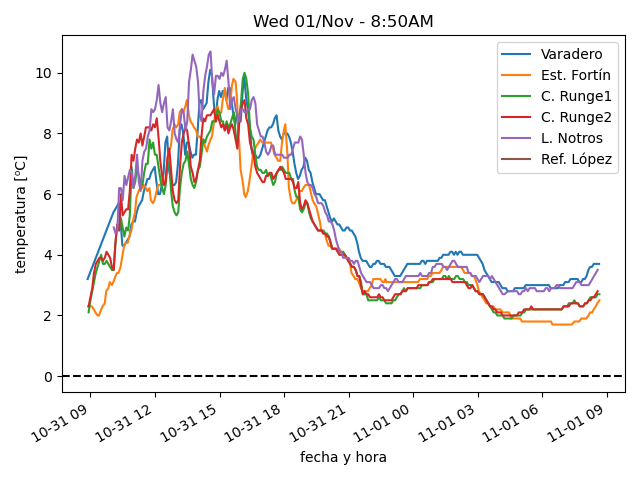
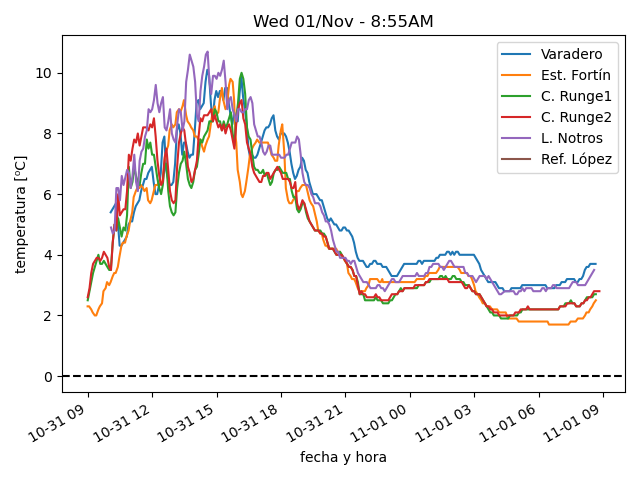
actualiza datos

diff --git a/estaciones/estacion4.html b/estaciones/estacion4.html
@@ -18,7 +18,7 @@
     </tr>
     <tr>
      <td class="stats_data">
-      8:34AM
+      8:49AM
      </td>
     </tr>
     <tr>
@@ -33,7 +33,7 @@
     </tr>
     <tr>
      <td class="stats_data">
-      89.0%
+      88.9%
      </td>
     </tr>
     <tr>
@@ -43,7 +43,7 @@
     </tr>
     <tr>
      <td class="stats_data">
-      4.3/6.9 km/hr SSE
+      3.3/5.3 km/hr SE
      </td>
     </tr>
     <tr>
@@ -58,7 +58,7 @@
     </tr>
     <tr>
      <td class="stats_data">
-      142.1 W/m²
+      152.1 W/m²
      </td>
     </tr>
    </tbody>
